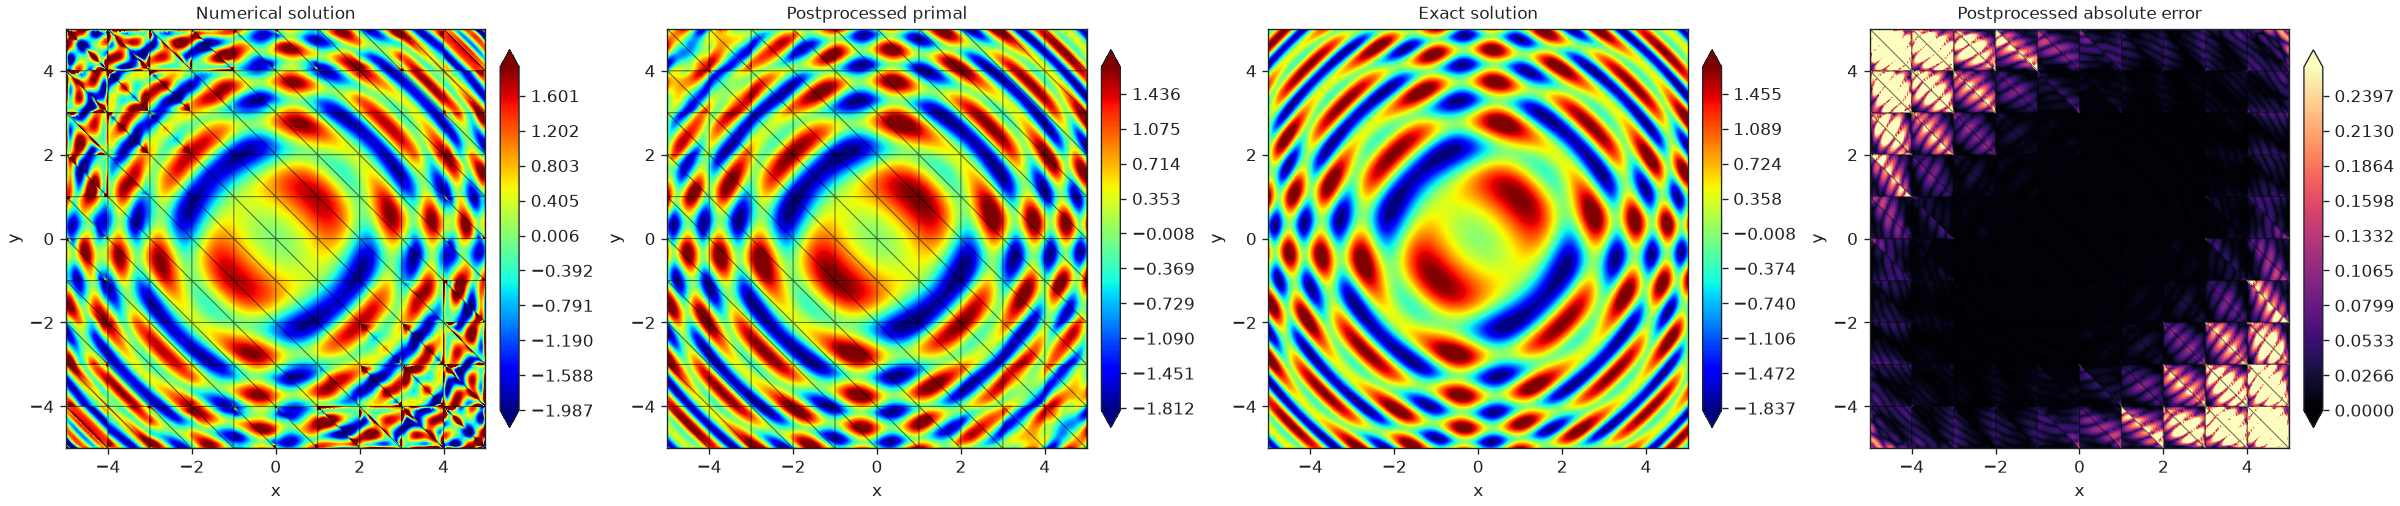
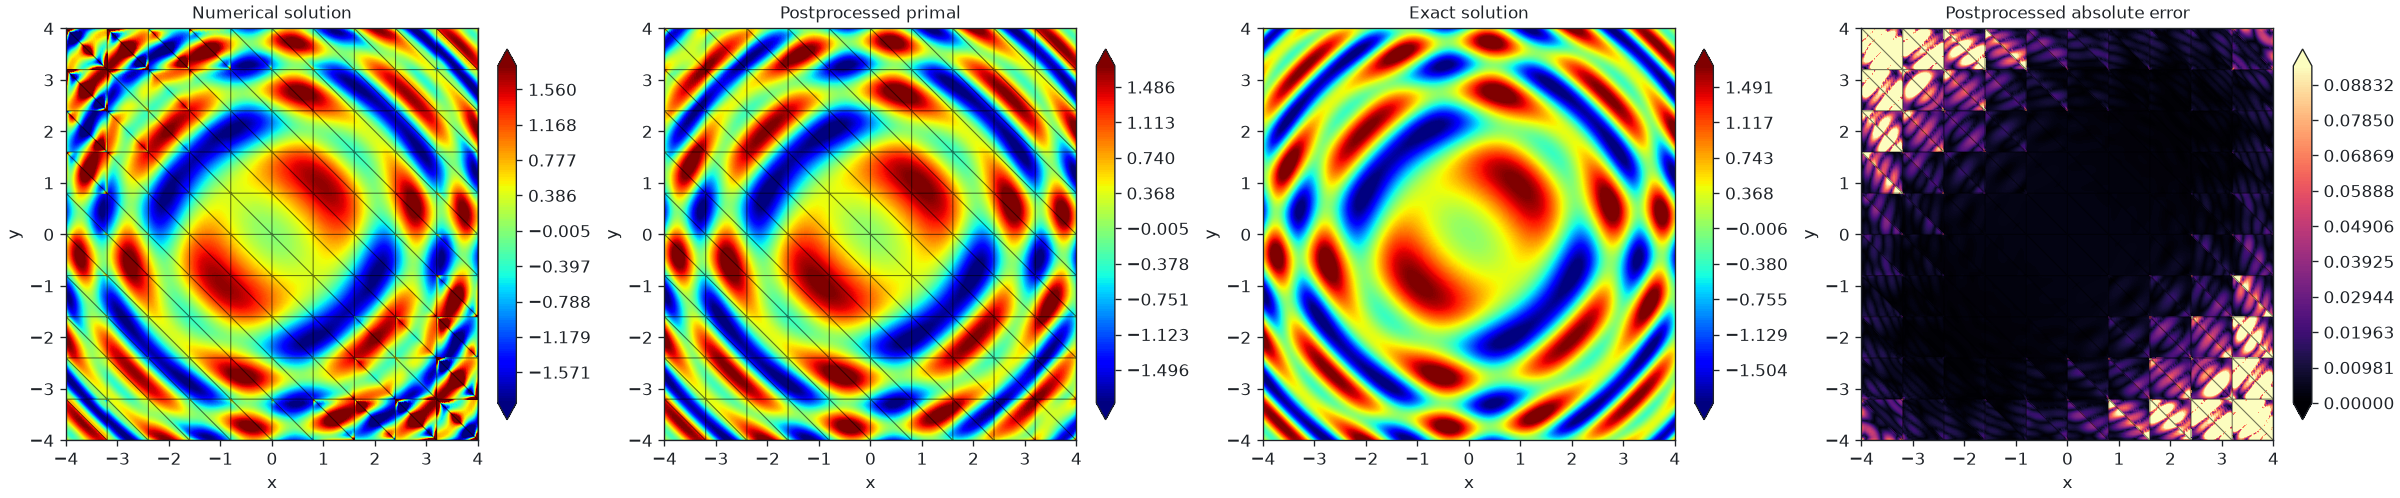
README first solve: p = 4 on [-4, 4]^2
The 10x10 mesh resolves the trigonometric solution better on the smaller
square: L2 errors 1.8 (p = 4) and 0.41 after postprocessing (p = 5), a
4.3x gain, against 3.7 and 1.2 at p = 5 on [-5, 5]^2.

diff --git a/README.md b/README.md
@@ -107,7 +107,7 @@ explain the discretizations.
 
 ## A first solve on the CPU
 
-A manufactured Poisson problem on the square [-5, 5]². The solve needs only the
+A manufactured Poisson problem on the square [-4, 4]². The solve needs only the
 base installation; the plot also needs the `plot` extra:
 
 ```python
@@ -115,8 +115,8 @@ import numpy as np
 from hybridge import DGSpace, rectangle_mesh, solve_diffusion_reaction_hdg
 from hybridge.io import plot_solution_comparison
 
-mesh = rectangle_mesh(10, 10, xlim=(-5., 5.), ylim=(-5., 5.))
-space = DGSpace(mesh, 5, basis_type="dub_orth")
+mesh = rectangle_mesh(10, 10, xlim=(-4., 4.), ylim=(-4., 4.))
+space = DGSpace(mesh, 4, basis_type="dub_orth")
 exact = lambda x, y: np.sin(x**2 + y**2) + np.sin(x*y)
 source = lambda x, y: ((x**2 + y**2) * (4*np.sin(x**2 + y**2) + np.sin(x*y))
                        - 4*np.cos(x**2 + y**2))     # -Δu = source, u = exact on the boundary.
